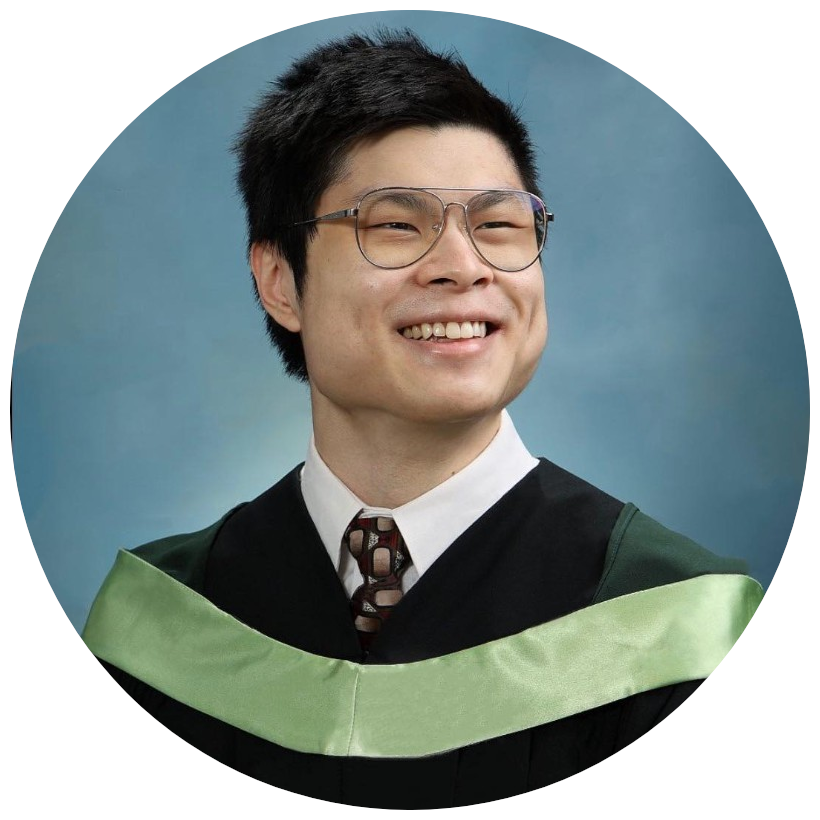
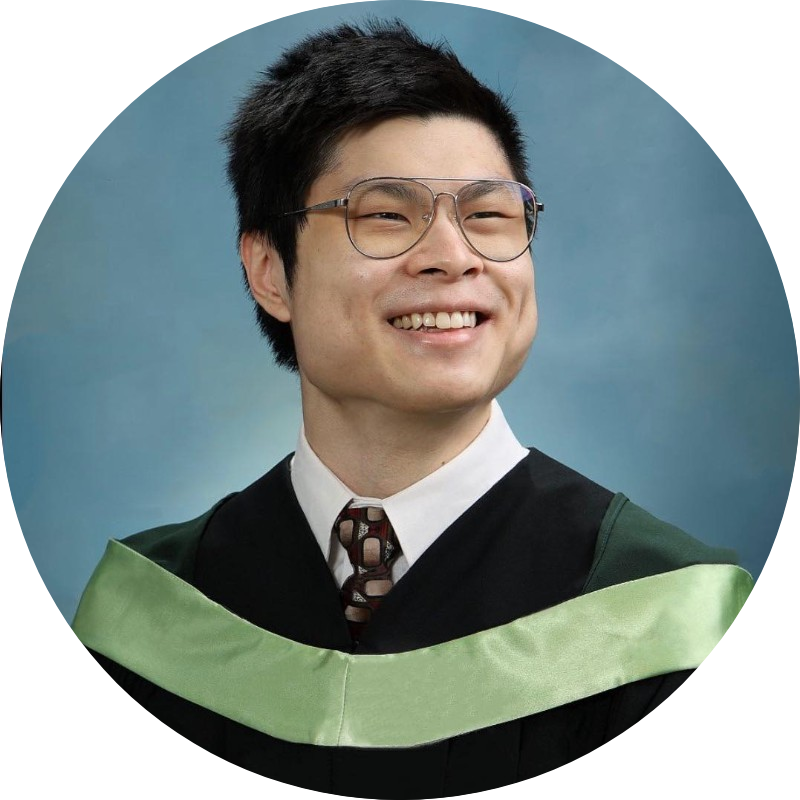
Updated images, added background image. Will start making own dark mode

diff --git a/_includes/header.html b/_includes/header.html
@@ -15,7 +15,7 @@
   <link rel="alternate" type="application/atom+xml" title="{{ site.title }} - {{ site.description }}" href="{{ site.url }}/atom.xml">
 
   <!-- Favicons -->
-  <link rel="icon" href="{{ site.url }}/img/Graduation-Picture-Circle.png">
+  <link rel="icon" href="{{ site.url }}/img/Graduation-Picture-Circle-Outlined.png">
 
   <!-- Fonts -->
   <link href='https://fonts.googleapis.com/css?family=Open+Sans:400,300,600,400italic,700|Merriweather:400,300,300italic,400italic,700' rel='stylesheet' type='text/css'>

diff --git a/css/style.scss b/css/style.scss
@@ -34,7 +34,10 @@ $secondary: #FF7B7B;
 
 // Big side bars left and right
 body {
-  background-color: #e9edf0;
+  // background-color: #e9edf0;
+  background-image: url( /img/Background-Image-Light.png );
+  background-repeat: no-repeat;
+  background-size: cover;
   @extend %opensans;
   -webkit-font-smoothing: antialiased;
 }
